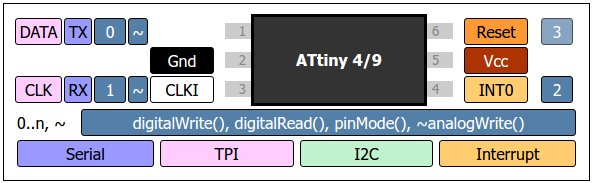
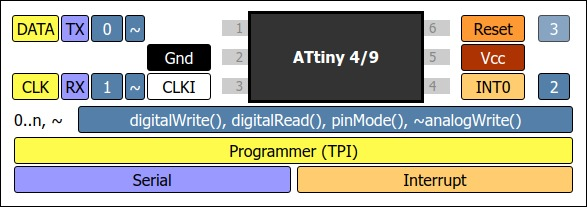
Update pinouts and 4/5/9/10 extra info.

diff --git a/avr/variants/tiny5_10/README.md b/avr/variants/tiny5_10/README.md
@@ -1,21 +1,9 @@
 Special Considerations for the ATTiny 4/5/9/10 in Arduino ATTinyCore
 -------------------------------------------------------------------------------
 
-## Toolchain
+Older versions of the Arduino IDE did not have the necessary tools to support these chips.  
 
-The 4/5/9/10 are not presently supported by the Arduino IDE's built in gcc, 
-so in order to use the IDE with these chips you will need to download
-the "official" build of avr-gcc toolchain from Atmel.
-
-  * Linux: http://www.atmel.com/tools/ATMELAVRTOOLCHAINFORLINUX.aspx
-  * Windows: http://www.atmel.com/tools/ATMELAVRTOOLCHAINFORWINDOWS.aspx
-
-
-After downloading the toolchain open your Arduino installation path, and navigate into the hardware/tools/ directory where you will see a directory called "avr".  Copy it to "avr.arduino" as a backkup.
-
-Open the file you downloaded and copy the contents  (avr, bin, doc...) of the top level directory into your hardware/tools/avr/ diretcory overwriting any existing files, (seriously if you can't work this out, you are not ready for using a Tiny 4/5/9/10).
-
-You should be good to go then.
+Starting with about 1.6.13 this should be OK now, but if you insist on using an old version of the IDE then you will find some help at the bottom of this page.
 
 ## Uploading
 
@@ -42,3 +30,19 @@ Pretty much forget about anything to do with Print (that includes Serial) as it'
 ## analogRead
 
 The 4/9 do not have any ADC so you can't use analogRead
+
+## Toolchain for Older IDE Versions
+
+The 4/5/9/10 are not supported by the Arduino IDE's built in gcc in IDE versions at least before 1.6.13,
+so in order to use an old version of the IDE with these chips you will need to download
+the "official" build of avr-gcc toolchain from Atmel.
+
+  * Linux: http://www.atmel.com/tools/ATMELAVRTOOLCHAINFORLINUX.aspx
+  * Windows: http://www.atmel.com/tools/ATMELAVRTOOLCHAINFORWINDOWS.aspx
+
+
+After downloading the toolchain open your Arduino installation path, and navigate into the hardware/tools/ directory where you will see a directory called "avr".  Copy it to "avr.arduino" as a backkup.
+
+Open the file you downloaded and copy the contents  (avr, bin, doc...) of the top level directory into your hardware/tools/avr/ diretcory overwriting any existing files, (seriously if you can't work this out, you are not ready for using a Tiny 4/5/9/10).
+
+You should be good to go then.

diff --git a/README.md b/README.md
@@ -164,7 +164,7 @@ Pin Mapping
 
 
 ### ATtiny13
- ![ATtiny13 Arduino Pin Mapping](https://cdn.rawgit.com/sleemanj/ArduinoOrientedChipPinoutCreator/master/13.jpg)
+ ![ATtiny13 Arduino Pin Mapping](https://rawgit.com/sleemanj/ArduinoOrientedChipPinoutCreator/master/13.jpg)
  
 ### ATtinyX4 
 
@@ -172,17 +172,17 @@ Two styles of numbering are available, the New Style which follows that of David
  
 **New Style**
 
-![New Style ATtinyX4 Arduino Pin Mapping](https://cdn.rawgit.com/sleemanj/ArduinoOrientedChipPinoutCreator/master/x4.jpg)
+![New Style ATtinyX4 Arduino Pin Mapping](https://rawgit.com/sleemanj/ArduinoOrientedChipPinoutCreator/master/x4.jpg)
 
 And the old style which reverses the digital pin numbering so that A0 is D10, A1 is D9 etc.
 
 **Old Style**
 
-![Old Style ATtinyX4 Arduino Pin Mapping](https://cdn.rawgit.com/sleemanj/ArduinoOrientedChipPinoutCreator/master/x4-alt.jpg)
+![Old Style ATtinyX4 Arduino Pin Mapping](https://rawgit.com/sleemanj/ArduinoOrientedChipPinoutCreator/master/x4-alt.jpg)
 
 ### ATtinyX5
 
- ![ATtinyX5 Arduino Pin Mapping](https://cdn.rawgit.com/sleemanj/ArduinoOrientedChipPinoutCreator/master/x5.jpg)
+ ![ATtinyX5 Arduino Pin Mapping](https://rawgit.com/sleemanj/ArduinoOrientedChipPinoutCreator/master/x5.jpg)
 ### ATtiny 441/841
 ![x41 pin mapping](http://drazzy.com/e/products/img/PinoutT841_fixed.png "Arduino Pin Mapping for ATTiny 841 and 441")
 ### ATtiny 1634
